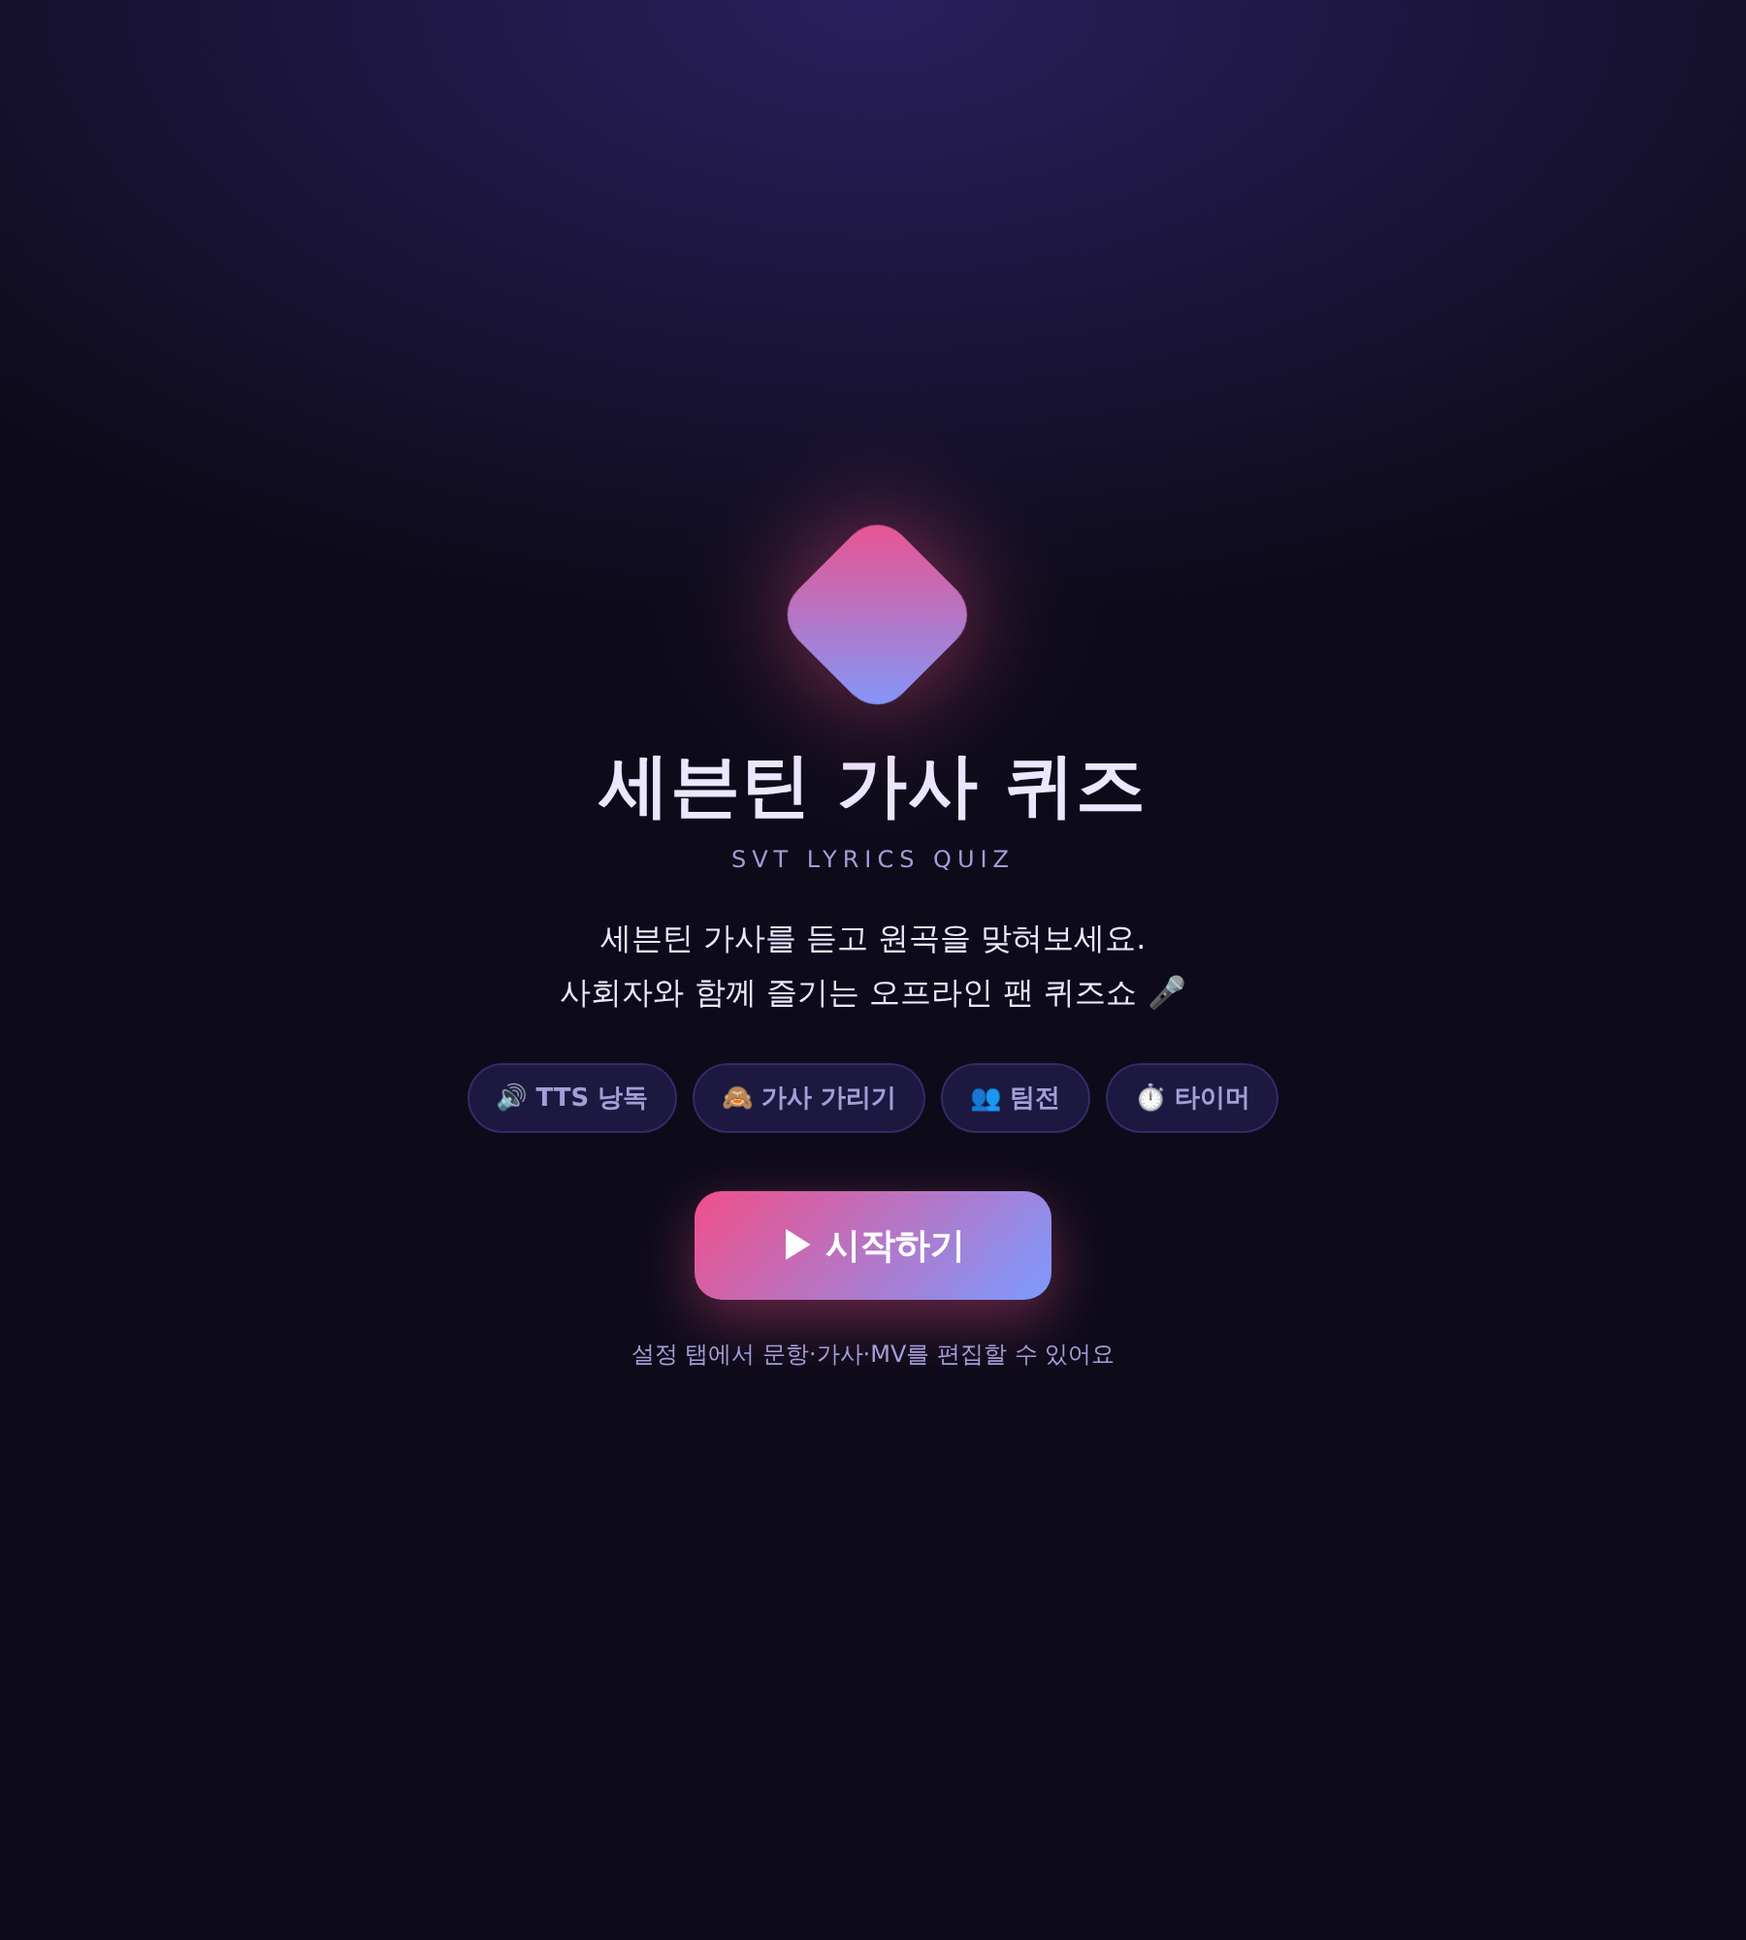
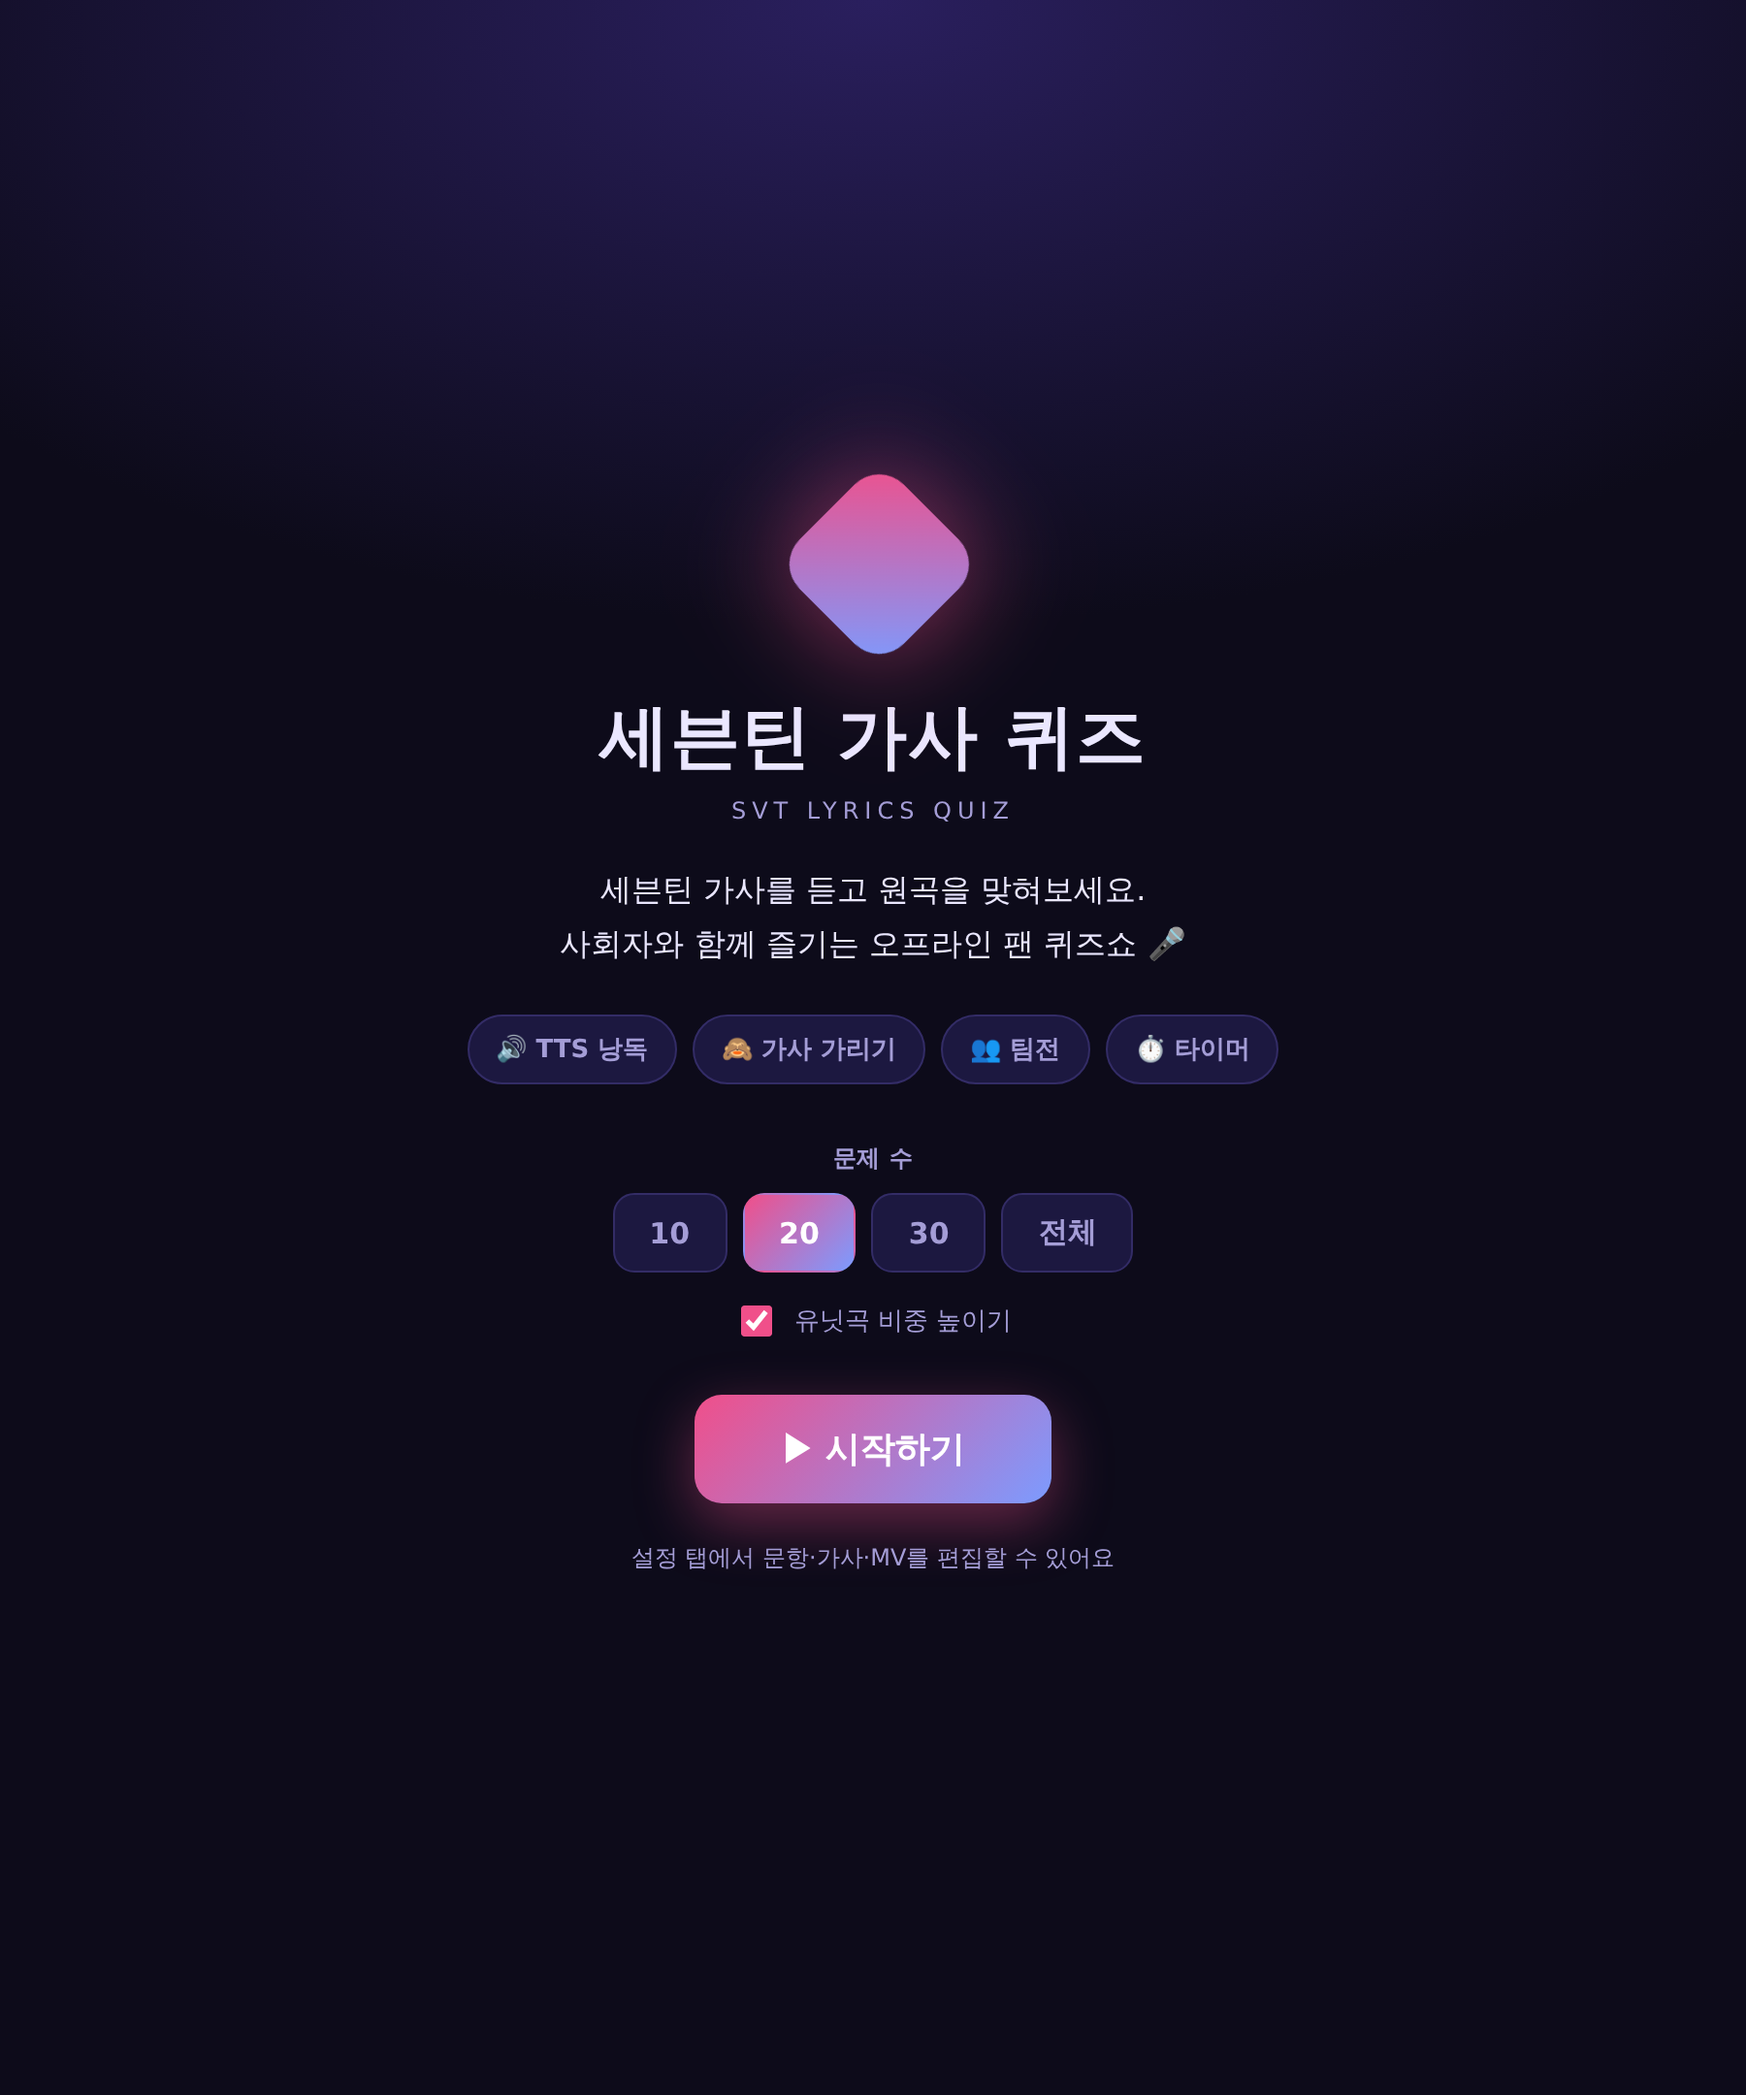
시작 화면 문제 수 선택 + 유닛곡 비중 가중 랜덤 출제
- 시작 화면에 '문제 수'(10/20/30/전체) 선택 + '유닛곡 비중 높이기' 토글 추가
- 시작 시 선택한 수만큼 랜덤 추출. 유닛곡(part에 팀·부석순·유닛·정한 포함)은
  가중치 2배로 부분 출제 시 더 자주 등장 (기존 DB 유지, 추출 단계에서 비중↑)
- 유닛곡 1곡 추가: 자꾸만 웃게 돼 (부석순) → 총 41곡
- 난이도 필터/셔플/처음부터도 문제 수 제한과 연동
- README·svt-data.json·스크린샷 갱신

Claude-Session: https://claude.ai/code/session_01BoVUxZZ7QKP6hKgrZ25vGv

Changed region(s): [[0.2489, 0.217, 0.7467, 0.744]]

diff --git a/index.html b/index.html
@@ -233,6 +233,14 @@
   .intro-start:hover{transform:translateY(-2px);box-shadow:0 14px 36px rgba(240,79,138,.5)}
   .intro-start:active{transform:scale(.97)}
   .intro-note{color:var(--muted);font-size:12px;margin-top:20px}
+  .intro-setup{margin:2px 0 26px}
+  .intro-setup-label{font-size:12px;color:var(--muted);font-weight:800;margin-bottom:9px;letter-spacing:.3px}
+  .intro-counts{display:flex;gap:8px;justify-content:center;flex-wrap:wrap;margin-bottom:14px}
+  .intro-counts button{background:var(--panel);border:1px solid var(--line);color:var(--muted);border-radius:11px;padding:10px 18px;font-size:15px;font-weight:800;cursor:pointer;font-family:inherit;min-width:58px;transition:.12s}
+  .intro-counts button:hover{border-color:var(--serene)}
+  .intro-counts button.on{background:linear-gradient(135deg,var(--rose),var(--serene));color:#fff;border-color:transparent}
+  .intro-unit{display:inline-flex;align-items:center;gap:8px;font-size:13px;color:var(--muted);cursor:pointer;user-select:none}
+  .intro-unit input{width:16px;height:16px;accent-color:var(--rose)}
 </style>
 </head>
 <body>
@@ -245,6 +253,16 @@
     <p class="intro-desc">세븐틴 가사를 듣고 원곡을 맞혀보세요.<br>사회자와 함께 즐기는 오프라인 팬 퀴즈쇼 🎤</p>
     <div class="intro-chips">
       <span>🔊 TTS 낭독</span><span>🙈 가사 가리기</span><span>👥 팀전</span><span>⏱ 타이머</span>
+    </div>
+    <div class="intro-setup">
+      <div class="intro-setup-label">문제 수</div>
+      <div class="intro-counts" id="intro-counts">
+        <button type="button" data-n="10">10</button>
+        <button type="button" data-n="20">20</button>
+        <button type="button" data-n="30">30</button>
+        <button type="button" data-n="0" class="on">전체</button>
+      </div>
+      <label class="intro-unit"><input type="checkbox" id="intro-unit" checked /><span>유닛곡 비중 높이기</span></label>
     </div>
     <button class="intro-start" id="intro-start">▶ 시작하기</button>
     <p class="intro-note">설정 탭에서 문항·가사·MV를 편집할 수 있어요</p>
@@ -541,6 +559,7 @@ const DEFAULT_SONGS = [
   {id:"s46", name:"엄지척 (Chuck)", part:"1절 벌스", diff:"중"},
   {id:"s47", name:"Fire", part:"1절 벌스", diff:"상"},
   {id:"s48", name:"Network Love", part:"1절 벌스 · 유닛", diff:"상"},
+  {id:"s49", name:"자꾸만 웃게 돼", part:"1절 벌스 · 부석순", diff:"신곡"},
 ];
 
 /* ---- 기본 콘텐츠 ----
@@ -588,6 +607,7 @@ const DEFAULT_CONTENT = {
   s46: {lyrics:"무대만 서도 시선은 끌었지 반응에 반응해 온몸은 땀 범벅임", mv:"https://youtu.be/rnTJtf2YSHc", time:"0:12"},
   s47: {lyrics:"조심해 손 델라 눈떠도 코 베인다", mv:"https://youtu.be/HJYmVv-lOkg", time:"0:05"},
   s48: {lyrics:"너무 멀어 우리의 거리 이렇게라도 너를 만난 기적", mv:"https://youtu.be/4GWunY73yzU", time:"0:08"},
+  s49: {lyrics:"너의 마법에 걸린 것 같아 나는", mv:"", time:""},
 };
 
 const DEFAULT_CONFIG = {
@@ -614,6 +634,8 @@ let teamScores = [];
 let turn = 0;
 let activeFilter = "all";
 let timerHandle = null, timerLeft = 0;
+let quizCount = null;        // 출제 문제 수 (null = 전체)
+let quizUnitBoost = true;    // 유닛곡 비중 높이기 (가중 랜덤)
 
 /* ---- 저장/로드 ---- */
 async function loadState(){
@@ -865,12 +887,21 @@ function pickMc(i){
   showAnswer();
 }
 
+function isUnitSong(s){ return /팀|부석순|유닛|정한/.test((s&&s.part)||""); }
 function buildOrder(filter, shuffle){
   let list=songs.map(s=>s.id);
   if(filter && filter!=="all") list=list.filter(id=>songById(id).diff===filter);
-  if(shuffle){
-    for(let i=list.length-1;i>0;i--){ const j=Math.floor(Math.random()*(i+1)); [list[i],list[j]]=[list[j],list[i]]; }
+  const doShuffle = shuffle || (quizCount!=null);   // 문제 수 제한 시 항상 랜덤
+  if(doShuffle){
+    if(quizUnitBoost){
+      // 유닛곡 가중치 2배 → 부분 출제 시 유닛곡이 더 자주 뽑힘
+      list = list.map(id=>({id, k:Math.pow(Math.random(), 1/(isUnitSong(songById(id))?2:1))}))
+                 .sort((a,b)=>b.k-a.k).map(o=>o.id);
+    }else{
+      for(let i=list.length-1;i>0;i--){ const j=Math.floor(Math.random()*(i+1)); [list[i],list[j]]=[list[j],list[i]]; }
+    }
   }
+  if(quizCount!=null && quizCount>0) list=list.slice(0, quizCount);
   order=list; pos=0;
 }
 function startNewGame(){
@@ -1277,12 +1308,24 @@ document.getElementById("r-restart").addEventListener("click",()=>{
 });
 
 /* =====================  INIT  ===================== */
-// 시작(랜딩) 화면 → 시작하기
+// 시작(랜딩) 화면 → 문제 수 선택 후 시작하기
 (function(){
   const intro=document.getElementById("intro");
-  function start(){ intro.classList.add("hide"); }
+  const counts=document.getElementById("intro-counts");
+  counts.querySelectorAll("button").forEach(b=>b.addEventListener("click",()=>{
+    counts.querySelectorAll("button").forEach(x=>x.classList.remove("on"));
+    b.classList.add("on");
+  }));
+  function start(){
+    const sel=counts.querySelector("button.on");
+    const n=sel? (parseInt(sel.dataset.n,10)||0):0;
+    quizCount = n>0 ? n : null;
+    quizUnitBoost = document.getElementById("intro-unit").checked;
+    startNewGame(); renderGame();
+    intro.classList.add("hide");
+  }
   document.getElementById("intro-start").addEventListener("click",start);
-  document.addEventListener("keydown",e=>{ if(!intro.classList.contains("hide") && (e.key==="Enter"||e.key===" ")){ e.preventDefault(); start(); } });
+  document.addEventListener("keydown",e=>{ if(!intro.classList.contains("hide") && e.key==="Enter" && e.target.tagName!=="INPUT"){ e.preventDefault(); start(); } });
 })();
 
 document.getElementById("s-savefile").addEventListener("click",downloadDataFile);

diff --git a/README.md b/README.md
@@ -105,6 +105,8 @@ https://alfira0526.github.io/SVT_Lyrics/
 | 🎬 **정답 공개 + MV 타임스탬프** | 곡명·파트 표시 후 등록된 유튜브 MV를 **지정 시작 시간부터 자동재생** |
 | ✍ **사회자 수동 채점** | 구어·약칭·영문/한글 표기 혼용 응답을 유연하게 인정 (자동 채점의 오판정 방지) |
 | 🎚 **난이도 필터 / 셔플** | 상·중·신곡만 골라 출제하거나 순서를 랜덤화 |
+| 🔢 **문제 수 선택 + 랜덤 출제** | 시작 화면에서 10/20/30/전체 중 선택 → 그만큼 랜덤으로 뽑아 출제 |
+| 🧩 **유닛곡 비중 높이기** | 시작 화면 옵션(기본 ON). 부분 출제 시 유닛곡(퍼포먼스·힙합·보컬팀·부석순 등)을 더 자주 뽑음 |
 | ⏱ **타이머** | 문항별 제한 시간(초 설정), 0 도달 시 알림 |
 | 👥 **팀전 모드** | 팀별 점수판·턴 관리, 타이머와 함께 쓰면 남은 시간만큼 **시간 보너스** 가산 |
 | 🏆 **결과·등급** | 정답률에 따라 입덕 준비생 🐣 → 라이트 팬 🌱 → 찐팬 ⭐ → 코어 팬 💎 → 칼럿 인증 🏆 |
@@ -113,10 +115,10 @@ https://alfira0526.github.io/SVT_Lyrics/
 
 ## 📝 문항 구성
 
-- 총 **40문항** (상 14 / 중 20 / 신곡 6) — **전곡 가사 입력 완료**
+- 총 **41문항** (상 14 / 중 20 / 신곡 7) — 전곡 가사 입력, 유닛곡 다수 포함
 - 초기 앨범 수록곡·유닛곡·솔로곡·최신곡을 두루 포함해 코어 팬을 변별
 - 타이틀곡 후렴을 지양하고 **벌스·랩·브릿지** 위주로 파트를 선정 (곡명이 가사에 나오는 구간은 배제)
-- 난이도 필터로 출제 범위를 자유롭게 조절할 수 있습니다
+- 시작 화면에서 **문제 수를 골라 랜덤 출제**할 수 있고, **유닛곡 비중 높이기**로 유닛곡을 더 자주 뽑을 수 있습니다
 
 **난이도 정의**
 - **상** — 벌스·랩·브릿지. 앨범을 반복 청취한 팬만 인지 가능
